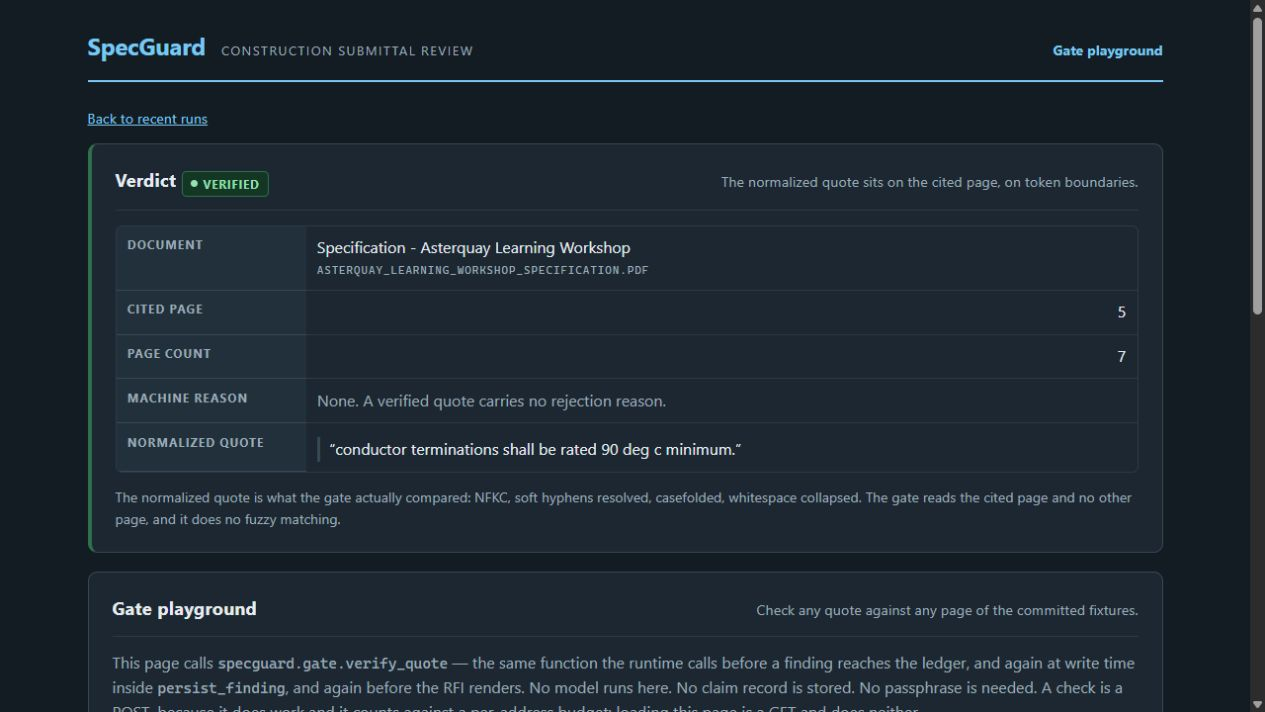
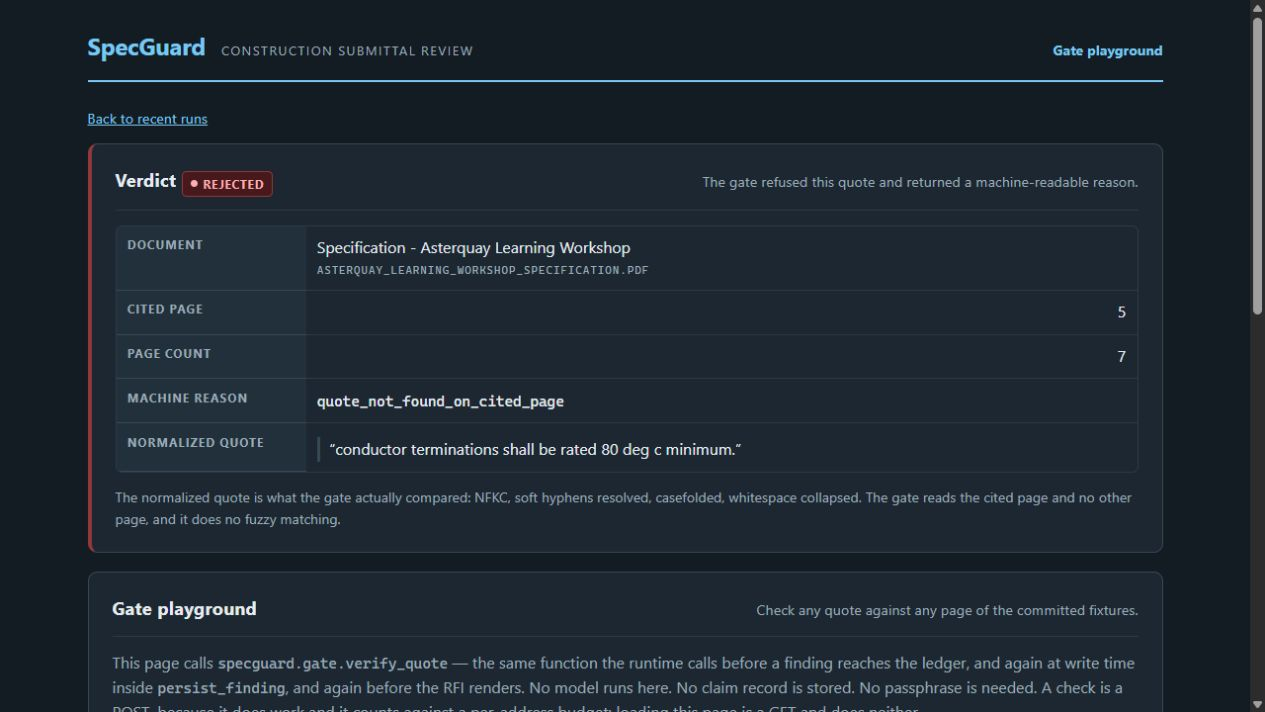
docs: correct final demo timing evidence

diff --git a/VIDEO-SCRIPT.md b/VIDEO-SCRIPT.md
@@ -4,11 +4,11 @@ Drafted 2026-08-21 from the Video section of PLAN.md and refreshed 2026-08-29 fr
 
 ## Continuous-segment rules (from PLAN.md, binding)
 
-- The core segment, 1:00 to 3:00, is one unbroken screen recording of the deployed service. It is the only part of the video claimed as unbroken.
+- The core segment, 0:43 to 2:47, is one unbroken screen recording of the deployed service. It is the only part of the video claimed as unbroken.
 - Narration may be re-recorded over it.
 - Slides before and after are separate cuts.
 - Never claim the whole video is one take.
-- The integrity beat (3:00 to 3:30) may ride inside the continuous segment if latency allows; otherwise it is its own cut and is not described as part of the unbroken segment.
+- The integrity beat is a separate cut after the continuous segment. Do not describe it as part of the unbroken recording.
 - Pre-stage the public sample buttons, the tabs, and the terminal font. Expect 3 to 5 takes.
 
 ## Honesty boundary for the whole video
@@ -38,25 +38,25 @@ Use these to size narration over waits. No receipt exists in HANDOFF.md for end-
 | `uv run pytest -q` (whole suite) | see the count README records from its own run; about 70 s locally on 2026-08-25 | local, 2026-08-25 |
 | Gemma 3 1B endpoint deploy | 1 min 48 s | SETUP.md, HANDOFF.md |
 
-Plan the continuous segment for two model runs of 10 to 15 s each on a warm revision. Budget 50 s for each if the first take is cold. The prior-day timed dry run (checklist, T-1) replaces these estimates with a fresh number.
+Plan the continuous segment for one model run. It reserves the observed 10 to 50 s range, including a 50 s maximum wait. If the run has not completed by that point, stop the take and report the actual delay rather than pretending it completed.
 
-Narration budget, measured 2026-08-26 by counting every primary paragraph in this file: **579 words**, which is 3:44 of audio at 155 words per minute or 3:37 at 160. Against the 4:00 ceiling that leaves 16 to 23 seconds of unnarrated screen time, so the delivery must stay at or above 155 words per minute and long waits must carry narration. The bracket on each paragraph is its actual word count. An earlier draft of this script carried 778 words — unrecordable inside the ceiling — and was cut on 08-26 with every mandatory line, number, and page reference preserved.
+The active sequence below ends at 4:00 and reserves 50 seconds for the one live model wait. The spoken text deliberately leaves quiet screen time; do not add narration, a second sample, or an extra evidence beat unless another beat is removed and the ending remains at or before 4:00.
 
 ## Shot list
 
 Narration is written at about 150 words per minute. Word counts are in brackets.
 
-### Shot 1, 0:00 to 0:20. Problem slide. Separate cut.
+### Shot 1, 0:00 to 0:18. Problem slide. Separate cut.
 
 - On screen: one slide. Left: a spec line, "Provide a 480V, 3-phase distribution switchboard". Right: a cut-sheet line, "Nominal system: 208V, 3-phase, 4-wire". Below: "Submittal review misses cost real money."
-- Narration [52]: "A submittal review asks one question: does the vendor's product meet what the spec requires. A 208-volt switchboard against a 480-volt spec is an expensive miss. A reviewer that can assert anything is worse than none: its output gets trusted. SpecGuard is built so it cannot assert what it did not read."
+- Narration [40]: "A submittal review asks whether a vendor product meets the spec. A 208-volt switchboard against a 480-volt requirement is an expensive miss. A reviewer that can assert anything is worse than none. SpecGuard cannot assert what it did not read."
 - Pre-staged: the slide.
 - Honesty boundary: no numbers, no accuracy claim.
 
-### Shot 2, 0:20 to 1:00. Architecture. Separate cut.
+### Shot 2, 0:18 to 0:43. Architecture. Separate cut.
 
-- On screen: the README architecture diagram (or `output/pdf/specguard-architecture.pdf`) for 20 s; then 10 s on a terminal running the read-only Cloud Run receipt below, with the public `.run.app` URL visible in the browser. This proves the serving revision without a console login or a resource change.
-- Narration [67]: "One Google ADK agent on Gemini 3.7 Flash reads both documents and proposes claims, each with verbatim quotes and page numbers. Around it, a runtime the model cannot skip: an integrity screen on both text layers, a log of every tool call, a gate that must find each quote on its cited page, one bounded retry, and the gate again at write time. All on Cloud Run."
+- On screen: the README architecture diagram (or `output/pdf/specguard-architecture.pdf`) for 15 s; then 10 s on a terminal running the read-only Cloud Run receipt below, with the public `.run.app` URL visible in the browser. This proves the serving revision without a console login or a resource change.
+- Narration [50]: "One Google ADK agent on Gemini 3.7 Flash reads both documents and proposes quoted, paginated claims. The runtime it cannot skip screens text layers, records model tool calls, requires a token-boundary match on the cited page, and verifies again before any write. The ready Cloud Run revision is the backend."
 - Pre-staged: README or the PDF diagram; the public service; and this read-only command in a terminal:
 
 ```powershell
@@ -64,86 +64,57 @@ gcloud run services describe specguard --region us-central1 --project specguard-
 ```
 - Honesty boundary: "proposes" for the model, "cannot skip" for the runtime. The recorded tool calls are the receipt for what the model actually did; do not claim the model performs the verification.
 
-### Shot 3, 1:00 to about 3:00. CONTINUOUS SEGMENT. One unbroken recording.
+### Shot 3, 0:43 to 2:47. CONTINUOUS SEGMENT. One unbroken recording.
 
 The recording starts on the landing page with the URL bar visible the whole time. Existing sample rows are harmless; do not reset the ledger for this shoot.
 
-#### 3a, 1:00 to 1:12. Run the public 208V sample.
+#### 3a, 0:43 to 0:51. Run the public 208V sample.
 
 - On screen: click `Veylan 208V` under "Run a sample audit." The running panel appears: "Audit running. Do not submit again."
-- Narration [31]: "Here is a fictional 208V sample a judge can run without a passphrase: one click. It is the deployed audit, and the page shows no progress because the server reports none."
+- Narration [18]: "A public fictional 208V sample, one click. It starts the deployed audit; the page does not invent progress."
 - Pre-staged: landing page with the four public sample buttons visible.
 - Honesty boundary: none beyond the page text.
 
-#### 3b, 1:12 to about 1:40. The wait.
+#### 3b, 0:51 to 1:41. The wait.
 
 - On screen: the running panel. Real latency, 10 to 50 s.
-- Narration over the wait [53]: "While that runs: both text layers were already screened for hidden spans, and both documents went in with page markers. The model returns structured claims. The gate then requires each quote as a contiguous match on token boundaries on its cited page. No fuzzy matching, no other page. A miss is a rejection."
-- If the wait outlasts the narration, hold on the panel. Fallback filler line [25]: "The model step is the only part of this run whose duration the server cannot report, so the page shows the wait as a wait rather than animate a guess."
+- Narration over the wait [37]: "Before the model responds, both text layers are screened and page-marked. It proposes structured claims. The gate accepts only a contiguous token-boundary quote on its cited page: no fuzzy match, no other page. A miss is rejected."
+- If the wait outlasts the narration, hold on the panel without filling the silence.
 - Honesty boundary: describe the runtime's actions, not the model's reasoning.
 
-#### 3c, 1:40 to 2:05. The findings page.
+#### 3c, 1:41 to 2:14. The findings page.
 
-- On screen: the run page. Point at, in order: the COMPLETED badge; the counters Claims made 1, Findings persisted 1, Rejected 0, Retried 0; the claim text; "Specification page 3" with `Provide a 480V, 3-phase distribution switchboard for service distribution.`; "Submitted page 1" with `Nominal system: 208V, 3-phase, 4-wire.`; the severity badge HIGH with `google-gemma3-gemma-3-1b-it` under it.
-- Narration [66]: "One claim, one finding. VERIFIED means one thing: these exact characters were found on page 3 of the spec and page 1 of the cut sheet. It does not say the conclusion is right — a human reads that. Rejected zero and retried zero: the model cited correctly first time, so the retry loop did not fire on this run. The HIGH label is Gemma's advisory severity."
-- If the badge reads UNCLASSIFIED, use the fallback line [35]: "Severity shows UNCLASSIFIED with a recorded reason: the Gemma endpoint did not answer this call. The label is advisory. The finding stands, because the gate, not the label, decides what enters the ledger."
-- Honesty boundary: the sentence "the retry loop did not fire on this run" is mandatory when the counters read zero.
+- On screen: the run page. Point at, in order: the COMPLETED badge; the counters Claims made 1, Findings persisted 1, Rejected 0, Retried 0; the claim text; "Specification page 3" with `Provide a 480V, 3-phase distribution switchboard for service distribution.`; "Submitted page 1" with `Nominal system: 208V, 3-phase, 4-wire.`; and the current `UNCLASSIFIED` severity reason.
+- Narration [49]: "One claim, one finding. VERIFIED means only these exact characters appear on spec page 3 and cut-sheet page 1. It does not say the conclusion is correct; a human decides. The model cited correctly first time, so the retry loop did not run. Severity is advisory and currently unclassified."
+- Honesty boundary: say that the retry loop did not run when the counters read zero.
 
-#### 3d, 2:05 to 2:15. The RFI.
+#### 3d, 2:14 to 2:47. The RFI.
 
 - On screen: click "Open the RFI draft PDF". Show the header block reading RFI number and submittal number, the heading "DRAFT - HUMAN REVIEW REQUIRED", and the finding with its two quotes, page numbers, and severity line. Then jump to the last page and hold on the signature lines with the chain-of-custody block in small type below them, ending "They do not prove accuracy."
 - Narration [34]: "The RFI carries the same quotes and pages. Each file's SHA-256 sits on the last page, past the signature, as chain of custody. In print on the page: the hashes do not prove accuracy."
 - Honesty boundary: "chain of custody", never "proof".
 
-#### 3e, 2:15 to 2:50. The subtle catch.
+End of the continuous segment. The integrity screen is separate and must not extend the live-model wait.
 
-- On screen: back to the landing page; click the `Torven 70 deg C` public sample; wait; the run page shows "Specification page 5" `Conductor terminations shall be rated 90 deg C minimum.` and "Submitted page 2" `Field conductor termination rating: 158 deg F.`; the claim text names the conversion.
-- Narration over the wait and the result [53]: "Second cut sheet. The spec wants terminations rated 90 degrees Celsius; this vendor states the rating only in Fahrenheit. 158 Fahrenheit is 70 Celsius — below the requirement. The gate verified both quotes, pages 5 and 2. The conversion is the model's claim, and the quotes give the reviewer the exact place to check."
-- Honesty boundary: the conversion is the model's claim, verified only as text anchors.
-
-#### 3f, 2:50 to about 3:20. The integrity beat. Inside the segment if latency allows; otherwise its own cut.
+### Shot 4, 2:47 to 3:10. Integrity screen. Separate cut.
 
 - On screen: back to the landing page; click the `Veylan altered (integrity screen)` public sample. Within seconds the run page shows the QUARANTINED badge and the notice "The text-layer integrity screen stopped this run. Reason: text_layer_integrity_screen. No model call was made and no RFI was drafted." Scroll to "Integrity records": page 1, two hidden spans, font and size, the document SHA-256. The first span reads `Nominal system: 209V, 3-phase, 4-wire.`; the second is a sentence addressed to an automated reviewer.
-- Narration [66]: "Same vendor, same visible page. This copy has two hidden spans no reader can see: a 209-volt line under the visible 208, and a sentence addressed to an automated reviewer. The screen reads the character flags before the model reads a word: the run stops. No model call, no finding, no RFI. The screen detects this one method; the README lists what it does not detect."
+- Narration [42]: "Same visible page, but this copy hides a 209-volt line and a sentence for an automated reviewer. Character flags stop it before the model reads a word: no model call, finding, or RFI. This screen detects that one method, not every concealment."
 - Pre-staged: nothing beyond the fixture.
 - Honesty boundary: "detects this one method" is mandatory. Do not say "detects tampering" in general.
 
-End of the continuous segment. If 3f pushed past 3:30, shoot 3f as a separate cut and say nothing about it being continuous.
-
-### Shot 4, about 3:00 to 3:30. Gate rejection from pytest, then the live playground. Separate cut. Two beats.
-
-#### 4a, about 3:00 to 3:18. The tests.
-
-- On screen: terminal, font 18 pt or larger. Run:
-
-```powershell
-uv run pytest tests/test_gate.py tests/test_agent.py -v
-```
-
-  About 9 to 10 s. The last lines on screen are the `tests/test_agent.py` names: `test_rejected_claim_gets_exactly_one_retry_then_rejection PASSED`, `test_one_retry_can_correct_the_quote_and_persist PASSED`, `test_retry_must_return_exactly_one_corrected_claim PASSED`, then the pass count — 68 on 2026-08-25. Read the count off the screen rather than saying it; the suite grows.
-- Narration over the run [49]: "The rejection-and-retry loop is proven here, not by live luck. These tests drive a rejected quote through the runtime: the claim goes back to the model once with the machine-readable reason, a corrected quote is verified again before it persists, and a second miss is recorded as a rejection."
-- Pre-staged: the command typed and ready; `uv sync` done; one dry run so the cache is warm.
-- Honesty boundary: "proven here, not by live luck" is the mandatory framing.
-
-#### 4b, about 3:18 to 3:30. Run the gate yourself.
+### Shot 5, 3:10 to 3:30. Run the gate yourself. Separate cut.
 
 - On screen: the browser tab already on `/gate`. The prefilled example is `Conductor terminations shall be rated 90 deg C minimum.` on page 5 of the specification, and the verdict card reads VERIFIED with page count 7 and no rejection reason. Click the first near-miss link, "One digit changed: 90 becomes 80". The card flips to REJECTED with the machine reason `quote_not_found_on_cited_page`. Do not type; one click is the whole beat.
 - Narration [35]: "This is the same gate function, live. The real sentence verifies against page 5. Change one digit and it is refused, with the machine reason. No model runs here. Judges can try their own quotes."
 - Pre-staged: the `/gate` tab loaded and scrolled so the verdict card and the near-miss links are both visible.
 - Honesty boundary: "the same gate function" is accurate and is the claim to make. Do not say the page proves the ledger; it proves the gate verdict only.
 
-### Shot 5, about 3:30 to 3:47. The eval table and its receipts. Separate cut.
-
-- On screen: EVAL.md, the header naming the code revision and the deployed default, one results table, and the "Cases that did not match the manifest" section. Then a two-second flick to `EVAL-RECEIPTS.jsonl` scrolled anywhere in its middle: dense JSON lines, one per model-initiated tool call. Do not zoom in far enough to read one; the point is that the file exists and is committed.
-- Narration [43]: "A hundred real runs on the fixtures. Both original-lane discrepancies caught in every run of both modes; no false positive, no decoy hit. On the hard lane, ninety in navigate against eighty-six in full text — three case-runs in seventy, noise, not a winner."
-- If the timing carries the receipts flick, append the extended close [12]: "Every tool call behind those numbers is committed, one line each." Without the flick, end on "not a winner."
-- Honesty boundary: "on the fixtures", never "accuracy". Read the current table before recording; the numbers below the table are regenerated by the harness, not typed here. Do not say navigate is better: name both numbers and call the gap noise.
-
-### Shot 6, about 3:47 to 4:00. Close on the RFI. Separate cut.
+### Shot 6, 3:30 to 4:00. Close on the evidence. Separate cut.
 
 - On screen: the generated RFI draft PDF, page 1, held still. The header block reads RFI number, submittal number, project, owner, and date, with no hex identifier anywhere on the page. Below it the findings table shows the claim, both quotes with their page numbers, and the severity. Below that the text-layer screen result for each document. Then one cut to the last page: the signature lines, and beneath them in small type the run identifier, the chain-of-custody hashes, and the line "They are chain-of-custody metadata only." Fade to the README headline, "Uncited claims are blocked from the ledger.", with the repo URL and the `.run.app` URL.
-- Narration [30]: "What a reviewer receives: every claim with the quote and page it rests on, and hashes labelled chain of custody, not proof. Uncited claims are blocked from the ledger. SpecGuard."
-- Pre-staged: the RFI PDF from the shot 3 run already open in its own tab at page 1, 125 percent zoom.
+- Narration [36]: "What persists is an RFI draft, not a decision: claim, quotes, pages, and hashes labelled chain of custody, not accuracy. The repository includes reproducible setup, evaluation receipts, and this architecture. A human reviews every claim. SpecGuard."
+- Pre-staged: the RFI PDF from Shot 3 and the README headline with the repository and service URLs.
 - Honesty boundary: "chain of custody", never "proof". The headline carries its README scope and nothing wider.
 
 ## Current shoot-day override — zero-change public-sample version
@@ -152,12 +123,14 @@ This section supersedes the historical `Shoot-day checklist` below. It was refre
 
 1. Do not deploy, update, reset, warm, or tear down any Cloud resource. Do not enter the upload passphrase and do not open arbitrary uploads.
 2. Before recording, run the read-only Cloud Run command in Shot 2. It must show a ready revision receiving 100% traffic. Keep the public `.run.app` service visible beside it.
-3. For the continuous segment, click the public `Veylan 208V`, `Torven 70 deg C`, and `Veylan altered (integrity screen)` samples. Call them fictional public samples in narration; do not present them as operator uploads.
+3. For the continuous segment, click only the public `Veylan 208V` sample. Capture `Veylan altered (integrity screen)` as the separate integrity cut. Call both fictional public samples in narration; do not present them as operator uploads.
 4. Use the run page's recorded `UNCLASSIFIED` fallback wording. The advisory label does not participate in verification.
-5. Pre-stage the landing page, `/gate`, the Cloud Run receipt terminal, the architecture diagram, EVAL.md, and EVAL-RECEIPTS.jsonl. Read counters and run IDs from the screen; do not rely on examples in this file.
+5. Pre-stage the landing page, `/gate`, the Cloud Run receipt terminal, the architecture diagram, the completed-run RFI, and the README headline. Read counters and run IDs from the screen; do not rely on examples in this file.
 6. Mason records the narration. No generated voice is used. The published video is a separate action-time approval.
 
-## Shoot-day checklist
+## Historical shoot-day checklist (archived — do not execute for the current closeout)
+
+The zero-change public-sample override above is authoritative. This dated record is retained only as historical planning evidence; it calls for paid and mutating work that is forbidden for the current closeout.
 
 All commands below run on arya (PowerShell) from `C:\Users\mcspd\dev\specguard`, with the Cloud SDK on `PATH` as `deploy-specguard.ps1` prefixes it. Record each command with its `$LASTEXITCODE`.
 
